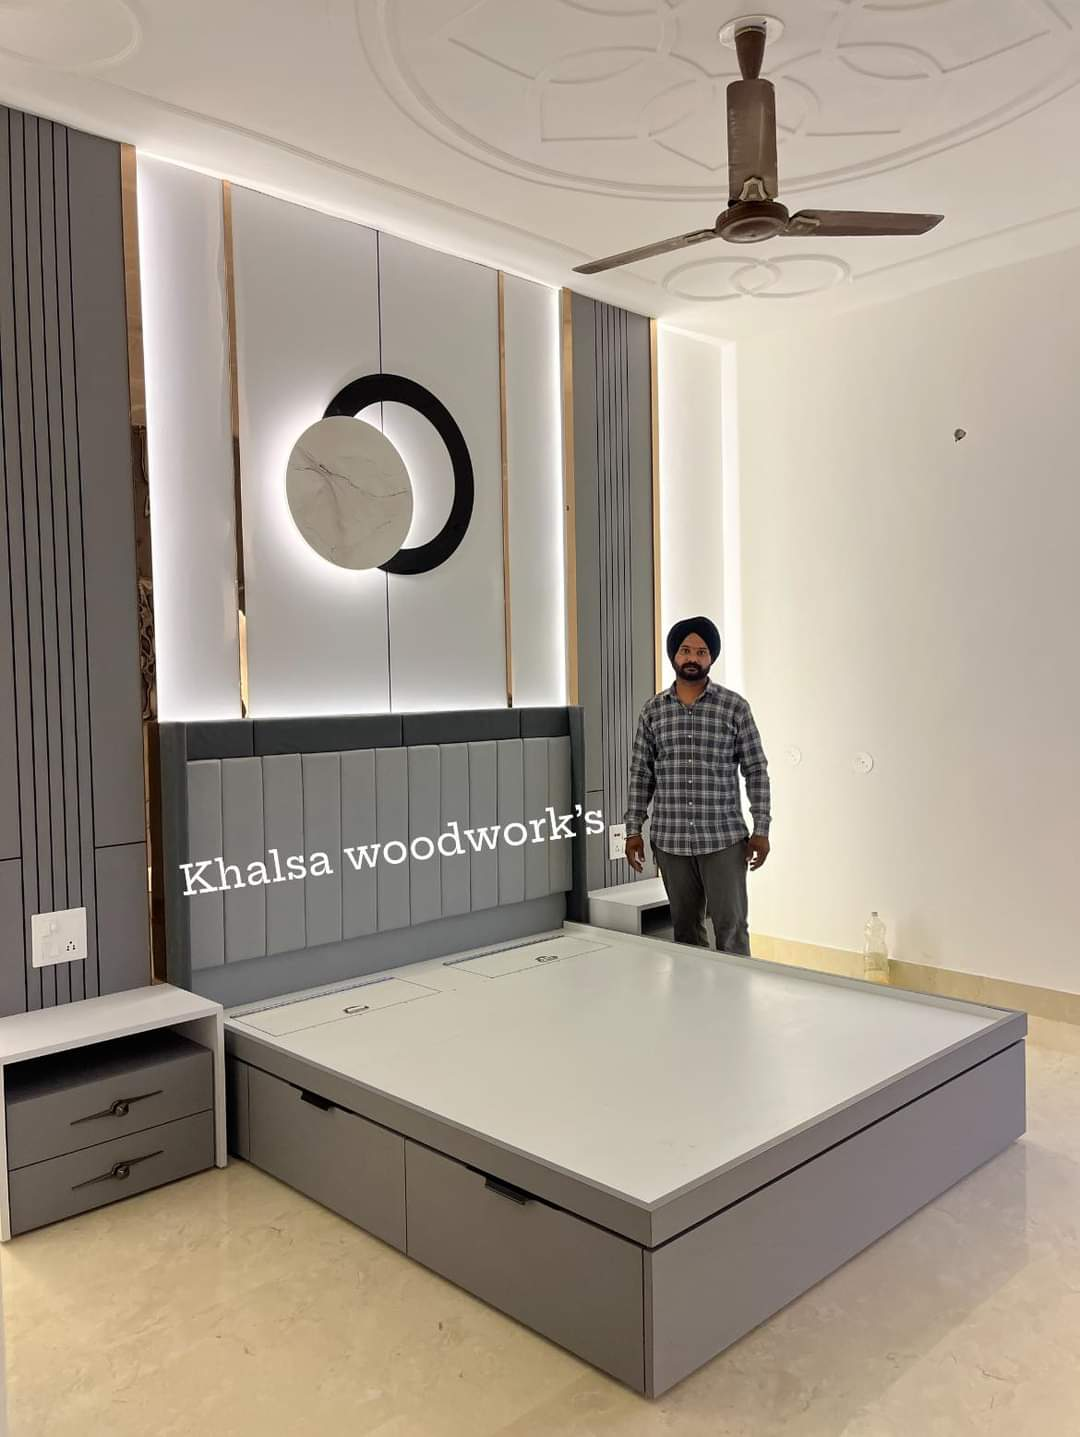
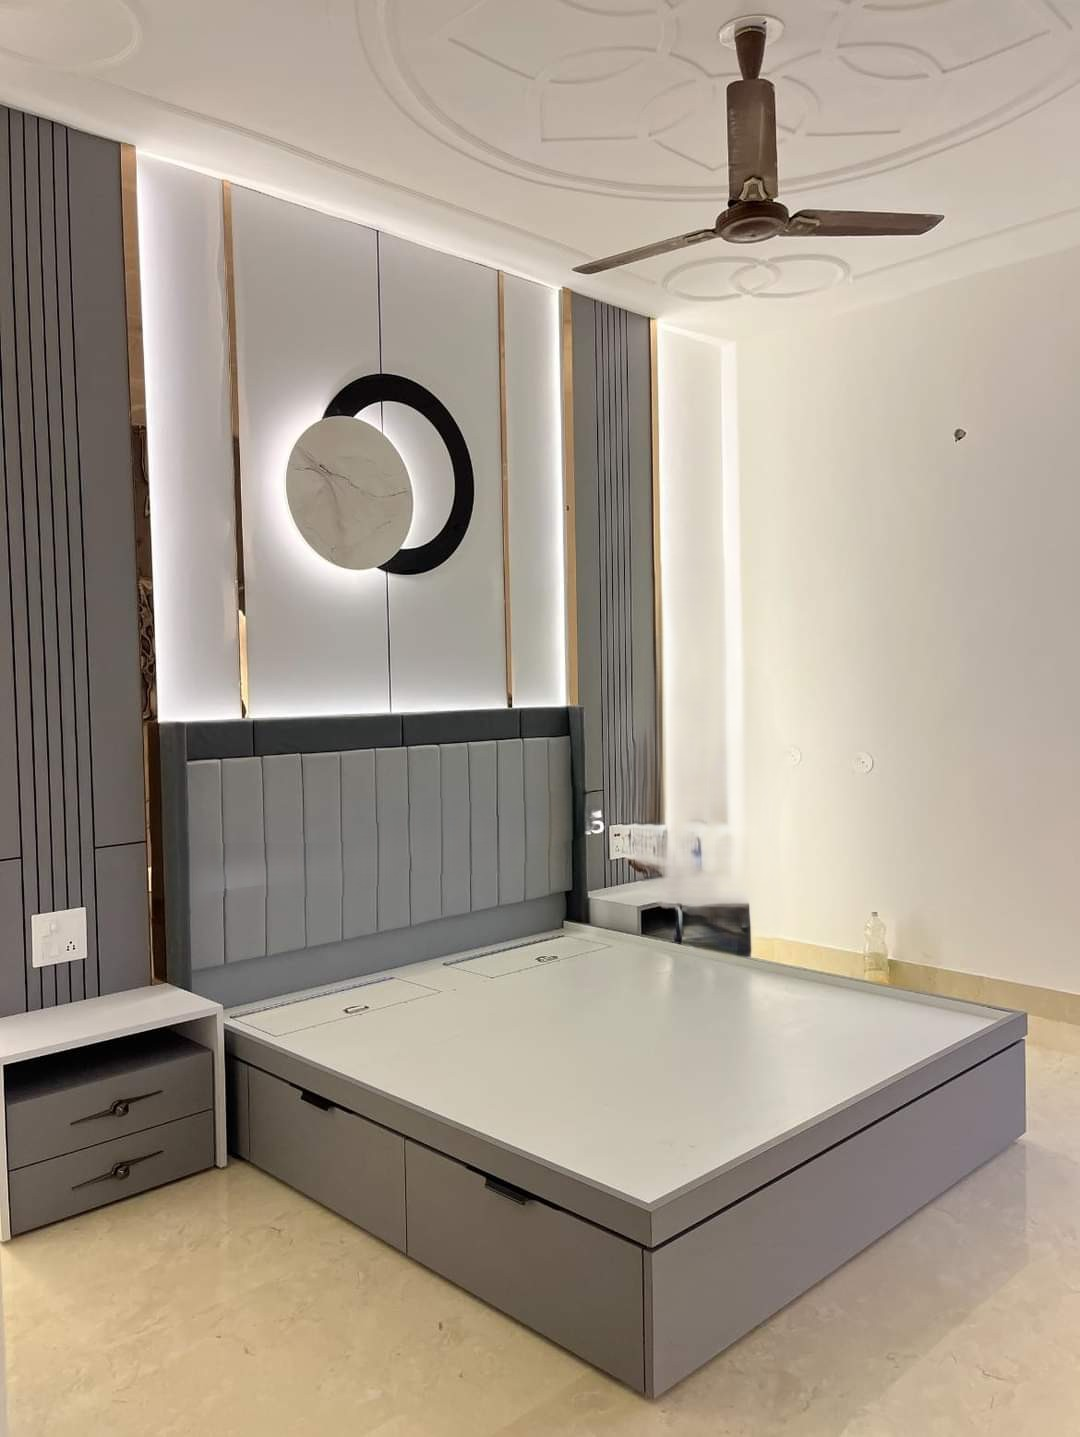
Image and yt video changes

Changed region(s): [[0.1528, 0.4287, 0.7333, 0.6736]]

diff --git a/src/data/projectToursData.js b/src/data/projectToursData.js
@@ -36,7 +36,7 @@ const projectTours = [
     location: "Hyderabad",
     description: "As placeholders, these are some of the images of the work done before for our clients.",
     roomImage: "https://images.unsplash.com/photo-1555041469-a586c61ea9bc?w=1200&q=90",
-    videoId: "2Vv-cvyPILsStkY",   // REPLACE with client YouTube video ID
+    videoId: "cvyPILsStkY",   // REPLACE with client YouTube video ID
     category: "Residential · Full Home"
   }
 ];